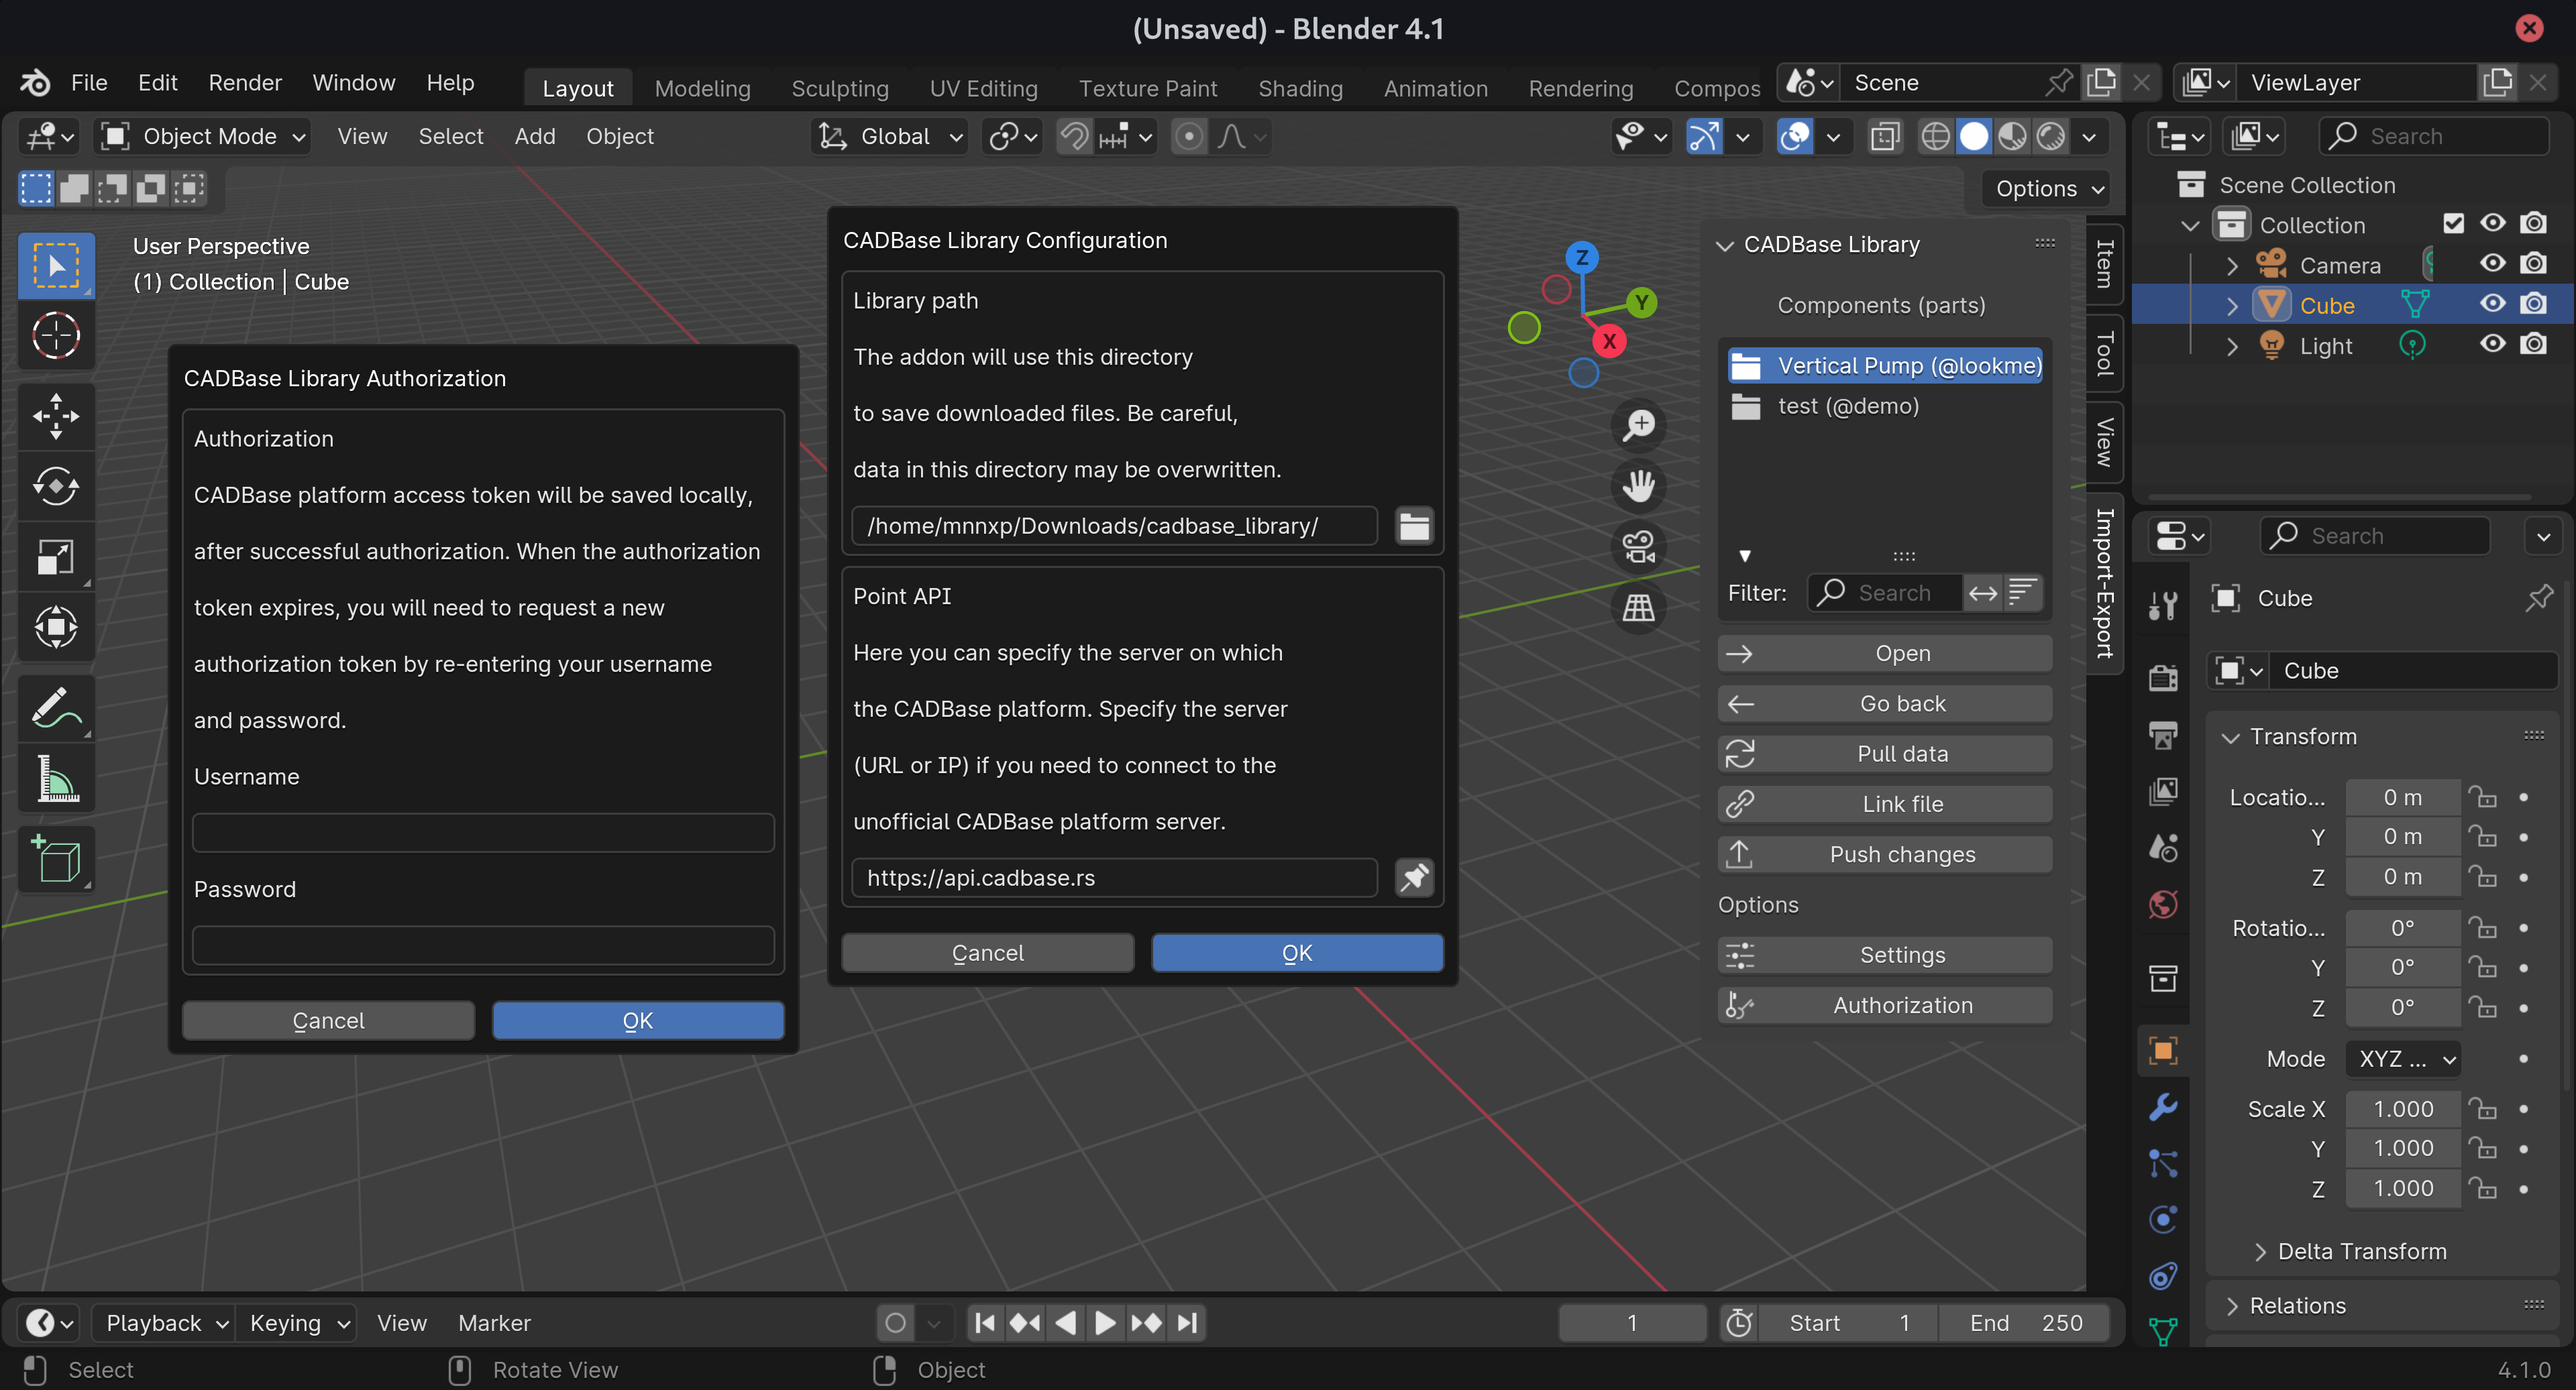
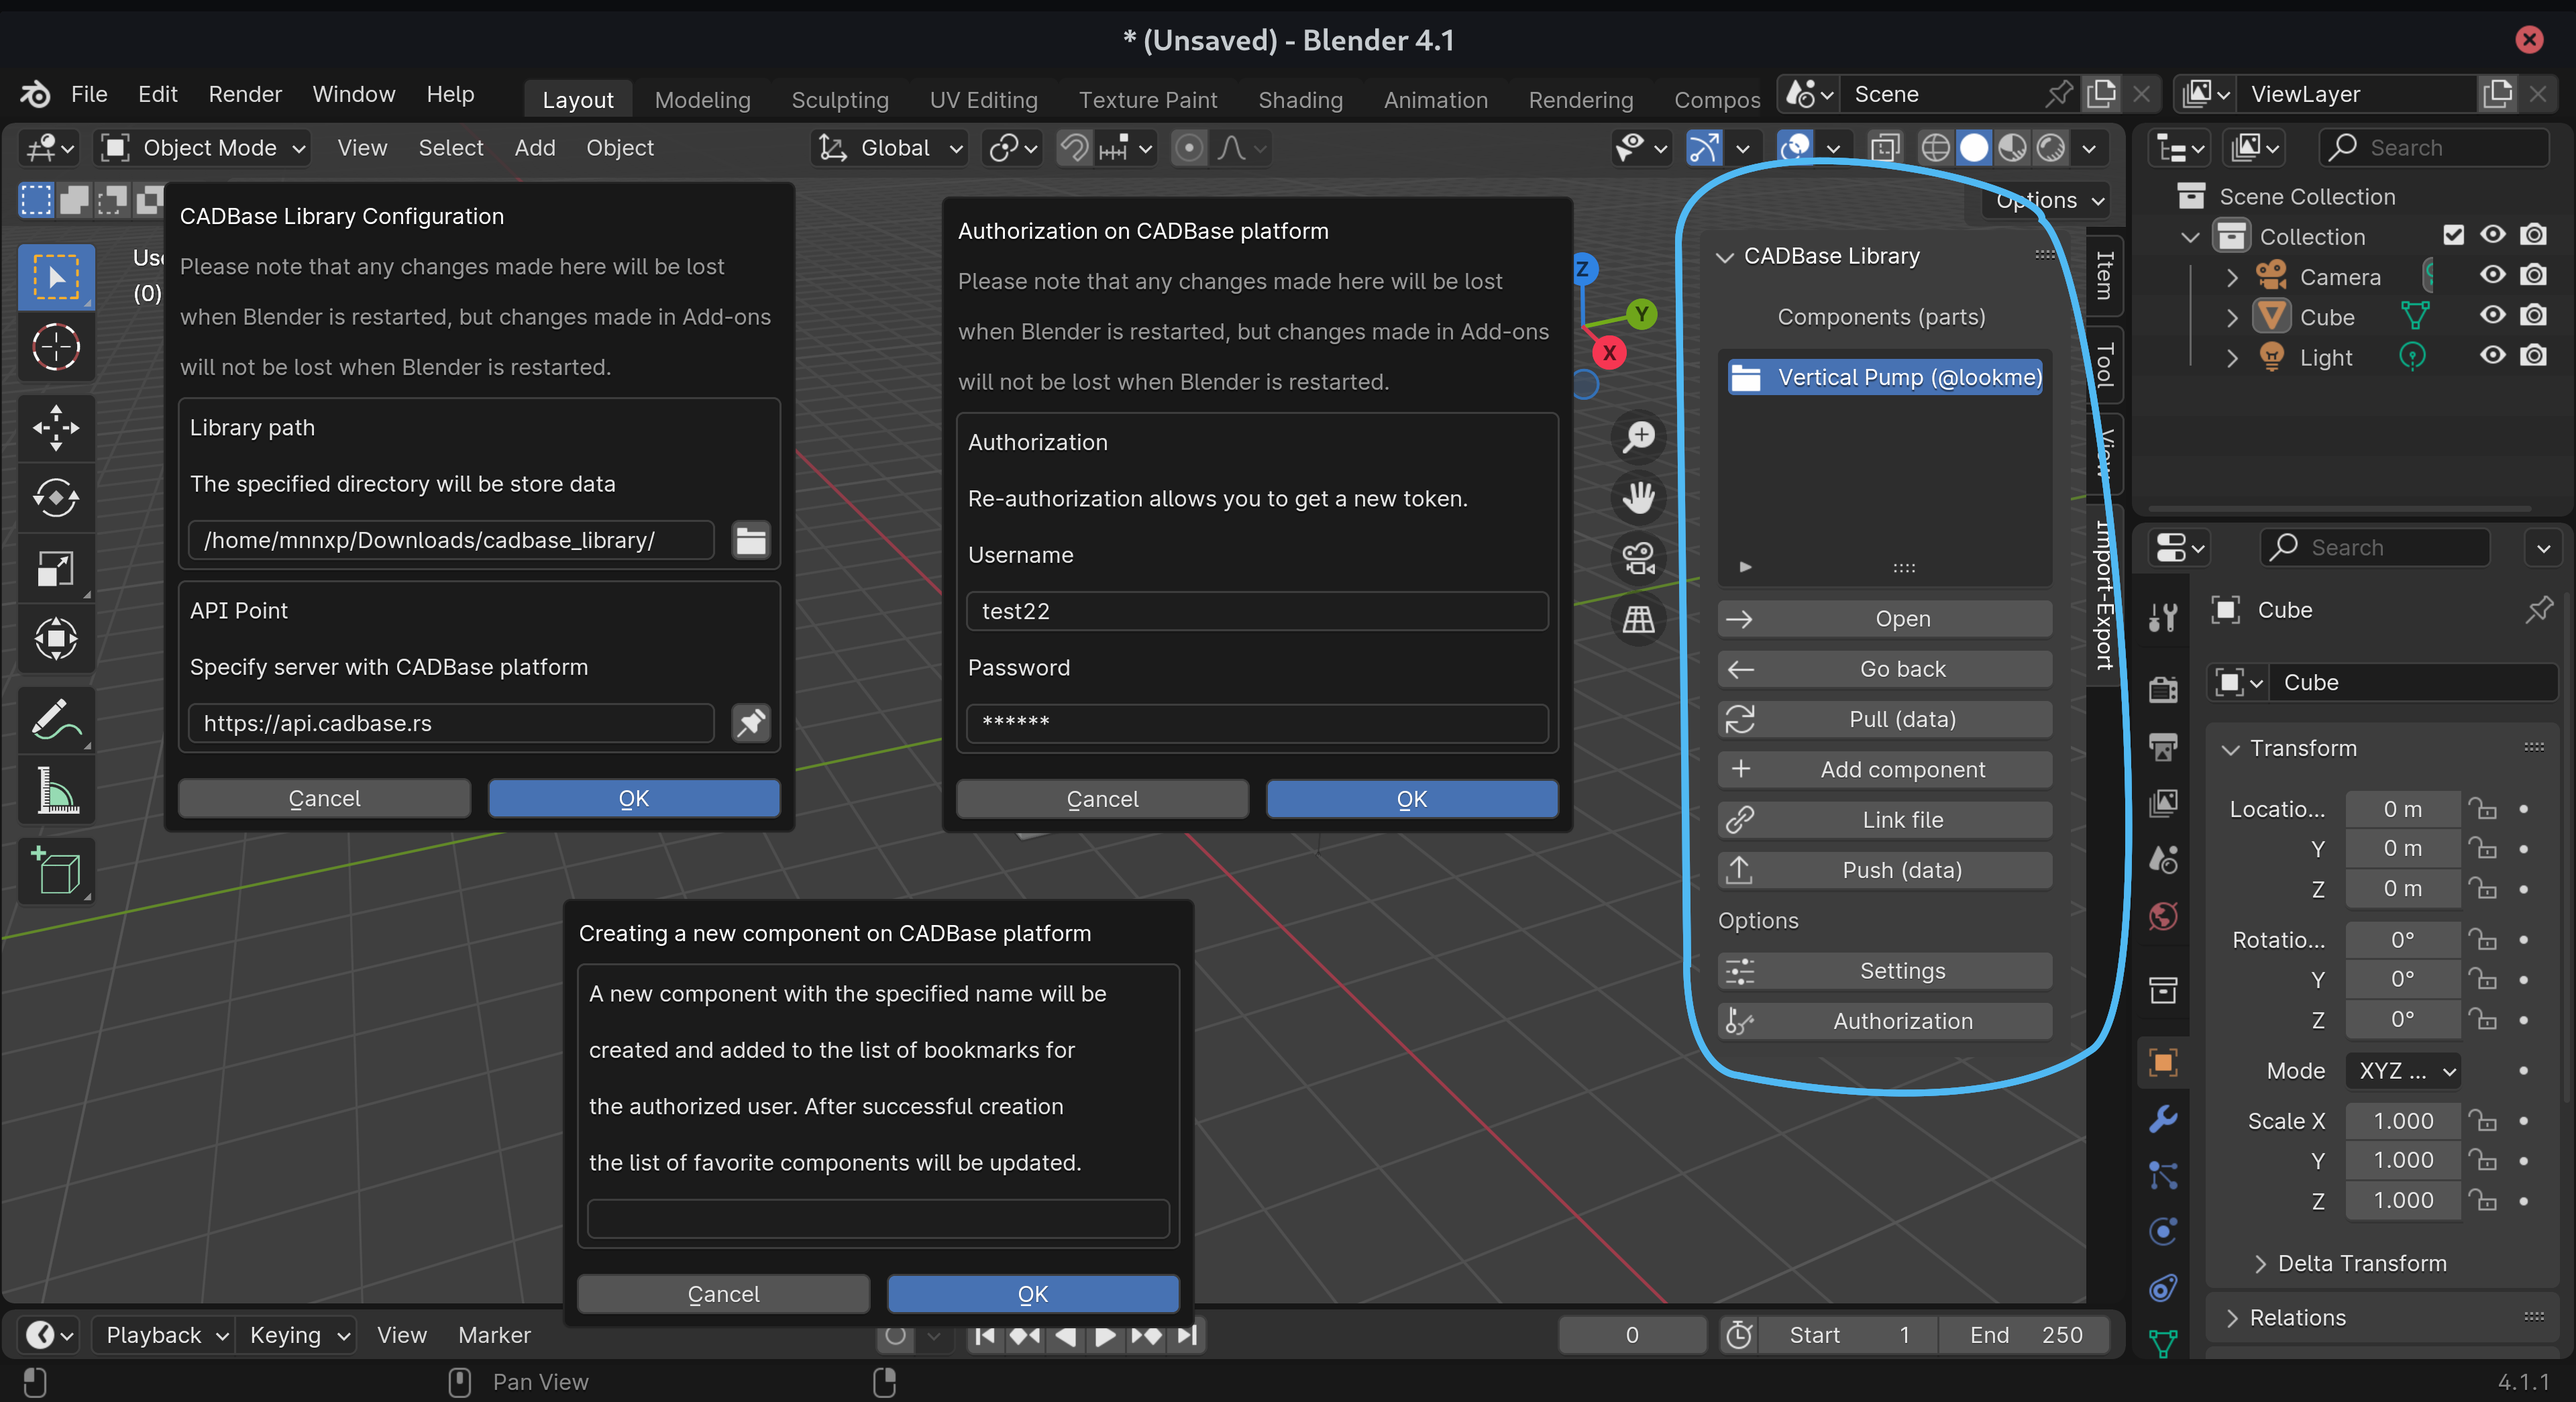
update readme and version

diff --git a/__init__.py b/__init__.py
@@ -3,8 +3,8 @@
 bl_info = {
     "name": "CADBase Library",
     "author": "mnnxp",
-    "version": (0, 1, 1),
-    "blender": (4, 1, 0),
+    "version": (0, 1, 2),
+    "blender": (4, 2, 0),
     "location": "3D View > Sidebar",
     "description": "This is add-on for synchronizing data with CADBase cloud storage",
     "doc_url": "https://gitlab.com/cadbase/cadbaselibrary-blender/-/blob/master/README.md",

diff --git a/README.md b/README.md
@@ -1,7 +1,7 @@
 # Add-on CADBase Library
 
 [![License: LGPL v3](https://img.shields.io/badge/License-LGPL%20v3-blue.svg)](https://www.gnu.org/licenses/lgpl-3.0)
-[![Blender >= 4.1.0](https://img.shields.io/badge/Blender->=4.1.0-gren)](https://blender.org)
+[![Blender >= 4.2.0](https://img.shields.io/badge/Blender->=4.2.0-gren)](https://blender.org)
 
 
 ![Demonstration of all windows of the CADBase Library add-on.](./Resources/panels_collage.png "All windows of the CADBase Library add-on.")
@@ -10,7 +10,7 @@ This add-on allows the user to interact with CADBase (upload and download parts)
 
 CADBase is a platform for publishing and sharing information about 3D components (parts), drawings and manufacturers.
 
-**Important Note:**  To use the add-on, you must have an account on the [CADBase Platform](https://cadbase.rs).
+**Important Note:**  To use the add-on, you must have an account on the [CADBase Platform](https://app.cadbase.rs). You can also create an account via add-on, if the entered username is free, a new user will be created with the specified username and password.
 
 ## Description
 
@@ -24,34 +24,37 @@ Files uploaded to file sets are versioned, allowing you to restore earlier versi
 
 ### Dependencies
 
-This add-on requires no additional steps and will work without additional libraries. However, optionally, a library can be installed to extend the functionality of the add-on.
+This add-on requires no additional steps and will work without additional libraries. But will attempt to perform automatic dependency installation when installing the add-on.
 
 ##### Installation Blake3
 
-To use this add-on to update files already in the CADBase storage, Blake3 must be installed.
+When installing the add-on, the Blake3 library will be extracted to the site-packages directory of the add-on itself.
 
-```sh
-  # Install on Unix/macOS
-  python3 -m pip install "blake3"
-  # Install on Windows
-  py -m pip install "blake3"
-```
+**Please Note:** The add-on will work without this _Blake3_ library, the only difference is that the files in the CADBase remote storage that have already been uploaded will not be replaced.
 
-**Please Note:** The add-on will work without this _Blake3_ library, the only difference is that the files in the CADBase storage (cloud) that have already been uploaded will not be replaced.
+### Settings
 
-### First start
-
-Once installed, the add-on will be available in the 3D View > Sidebar menu.
-
-Select the **CADBase Library** add-on in the Import-Export category.
+![CADBase Library add-on and its settings in the Blender Add-ons](./Resources/preferences.png)
 
 #### Configuration CADBase Library
 
-First you need to set the library location. CADBase cloud storage will be synchronized with this location. Also there will storage files with technical data for add-on.
+First you need to set the library location. CADBase remote storage will be synchronized with this location. Also there will storage files with technical data for add-on.
 
 This location can be changed in the add-on settings in the field _Library path_.
 
 #### Getting an authorization token
+
+On the CADBase library card in the **Add-ons** section of the Blender “Preferences...” there are **username** and **password** fields.
+
+To obtain a token for an existing account or create a new account to access CADBase, you must provide a **username** and **password**. This data will be saved and available after restarting Blender.
+
+After entering these data to receive the token and pressing the **Login** button. Please wait until you receive the token.
+
+**Important Note:**  If the access token has expired, you need to repeat the steps above.
+
+##### Alternatively
+
+The disadvantage (or advantage) of this option is that it only saves changes until Blender restarts. After a new startup, Blender restores the data if it is set in the Add-ons Manager.
 
 In the _CADBase Library_ window, click the **Authorization** button.
 
@@ -59,8 +62,11 @@ When the _Authorization on CADBase platform_ window opens, you need to set a **u
 
 After entering these data to receive the token and pressing the **OK** button. Please wait until you receive the token.
 
-**Important Note:**  If the access token has expired, you need to repeat the steps above.
+### First start
 
+Once installed, the add-on will be available in the 3D View > Sidebar menu.
+
+Select the **CADBase Library** add-on in the Import-Export category.
 
 ### Control
 
@@ -68,31 +74,57 @@ After entering these data to receive the token and pressing the **OK** button. P
 
  `Go back` - return to the previous level (higher). If a set of files is open, the button opens a list of modifications of a component; if a list of modifications of a component is open, the button opens a list of a user's favorite component.
 
- `Pull` - retrieves data from the remote server and updates the local library view.
+ `Pull (data)` - retrieves data from the remote server and updates the local library view.
+
+ `Add component` - When you click on this button, a modal window opens for specifying the name of the new component (part, project, etc.).
 
  `Link file` - link creates a reference to the data in the source file such that changes made there will be reflected in the referencing file the next time it is reloaded.
 
- `Push` - button to upload files from Blender folder (set of files for Blender) of local library to CADBase storage. Before uploading, the hash of existing files in local and cloud storage is checked, if they are different, the files in cloud storage are updated. Blake3 library is used to calculate the hash, if it is unavailable, the hash is not checked and existing files in the cloud are not updated.
+ `Push (data)` - button to upload files from Blender folder (set of files for Blender) of local library to CADBase storage. Before uploading, the hash of existing files in local and cloud storage is checked, if they are different, the files in cloud storage are updated. Blake3 library is used to calculate the hash, if it is unavailable, the hash is not checked and existing files in the cloud are not updated.
 
  `Settings` - this button opens a modal window where you can specify the path to the local library, where the files received from CADBase will be stored, and the address of CADBase server.
 
  `Authorization` - this button opens a modal window where you can specify login and password from CADBase profile to get a new authorization token. This action must be repeated if the access token is revoked or expired.
 
+_Changes made through Settings and Authorization will be reset when Blender restarts. For changes to be saved after restarting Blender, they must be made via Add-ons in Preferences..._
+
 ## Usage
 
-Add target components to bookmarks (favorites) on the CADBase site.
+Create new components with the add-on and add target components to bookmarks (favorites) on CADBase website.
 
 In Blender will only display components that the user has bookmarked on CADBase platform, as well as those that have been previously downloaded.
 
+### CADBase Library Browser
+
+Favorite components are displayed at root level. After selecting and opening a component, a list of its modifications is displayed this Component level. These levels correspond to the location of folders in the directory that is specified in the `Library path` property.
+When you open a modification (modification level), it actually displays files from the Blender file set that is in the Blender folder, not directly in the modification folder.
+Files for Blender will be downloaded through this add-on, files from kits for other programs will not be downloaded.
+
+```
+
+-Library path                   # Root level (set in add-on)
+├── Vertical Pump (@lookme)     # Component level
+│   ├── Blender                 # Modification level (Blender file set)
+│   │   └── modification        # file with technical information
+│   │   └── vertical Pump.blend # The file was created in Blender 3D
+│   │   ...                     # Other files of the fileset
+│   └── FreeCAD                 # Modification level (FreeCAD file set)
+│   └── ...                     # Other modifications of the component (Component level)
+├── ...                         # Other components from user bookmarks (Root level)
+├── component                   # file with technical information
+└── cadbase_file_2018           # file with technical information
+
+```
+
 ### Getting data
 
-To get the data, click on the **Pull** button. Depending on the open position (directory), this will start the process of retrieving a list of the user's favorite components, a list of component modifications, or downloading files from the file set of the selected component modification for Blender.
+To get the data, click on the **Pull (data)** button. Depending on the open position (directory), this will start the process of retrieving a list of the user's favorite components, a list of component modifications, or downloading files from the file set of the selected component modification for Blender.
 
 ### Sending data
 
 Open the modification from which you want to upload the files.
 
-Click the **Push** button to upload the local files for the set of component modification files to CADBase storage (cloud).
+Click the **Push (data)** button to upload the local files for the set of component modification files to CADBase storage (cloud).
 
 Information about the upload process will be displayed in the Blender report.
 
@@ -131,6 +163,8 @@ Mirrors on [GitHub](https://github.com/mnnxp/cadbaselibrary-blender) and [Codebe
 About CADBase Platform on [YouTube](https://www.youtube.com/@cadbaseplatform)
 
 ## Version
+v0.1.2 2024-05-29    * added ability to create a component, error handling, support for online_access property and automatic installation of blake3 dependencies
+
 v0.1.1 2024-05-24    * added bug information and updated translations
 
 v0.1.0 2024-05-19    * updated links, save settings in userpref.blend, added ability to create an account via add-on
